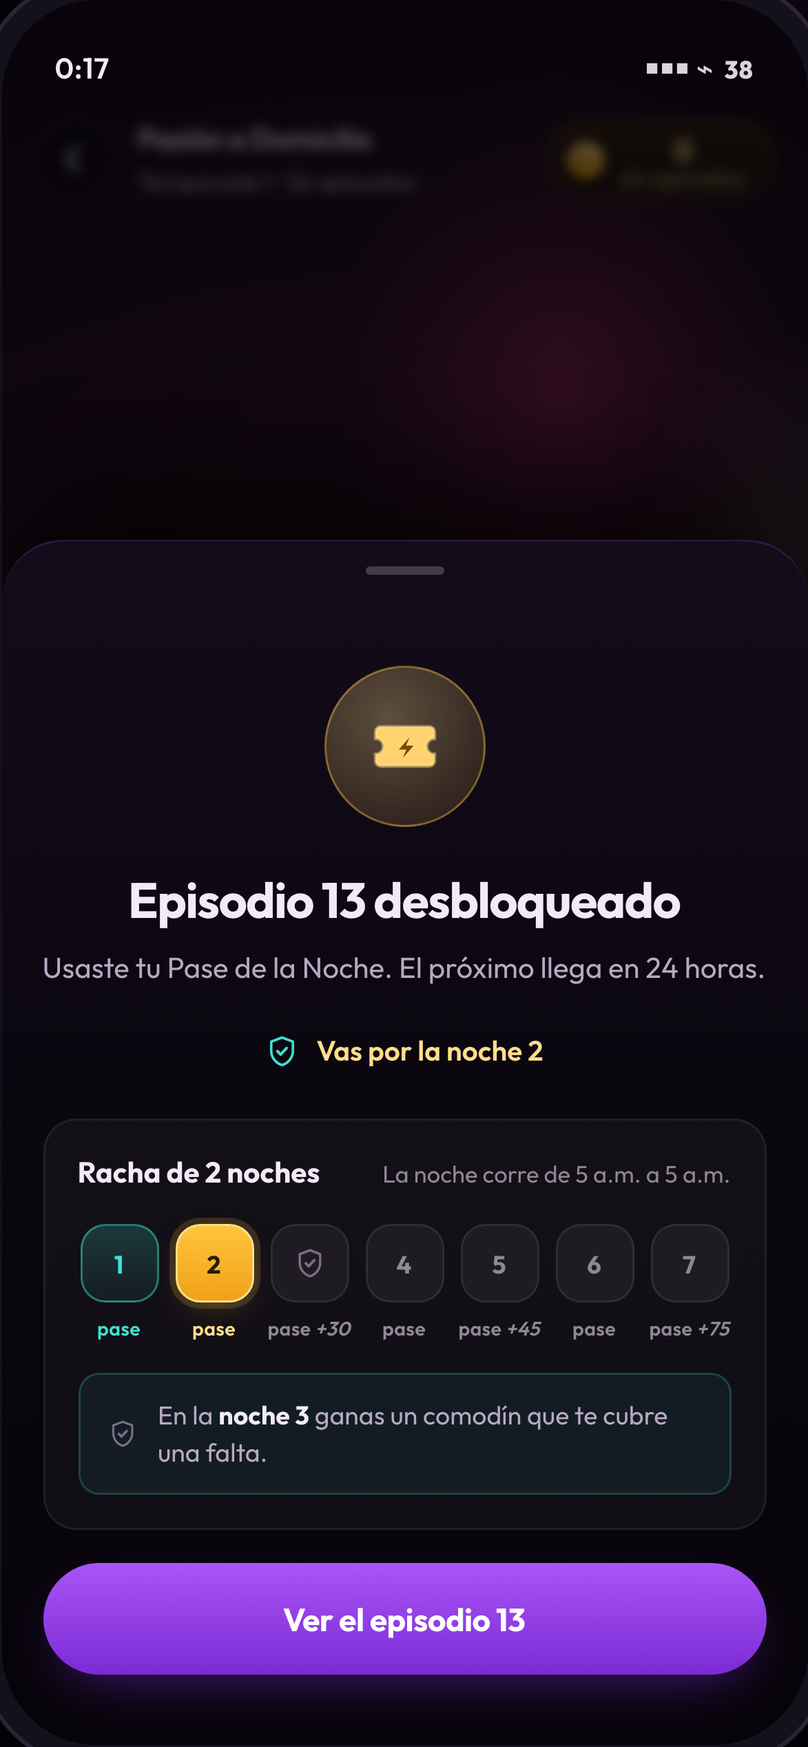
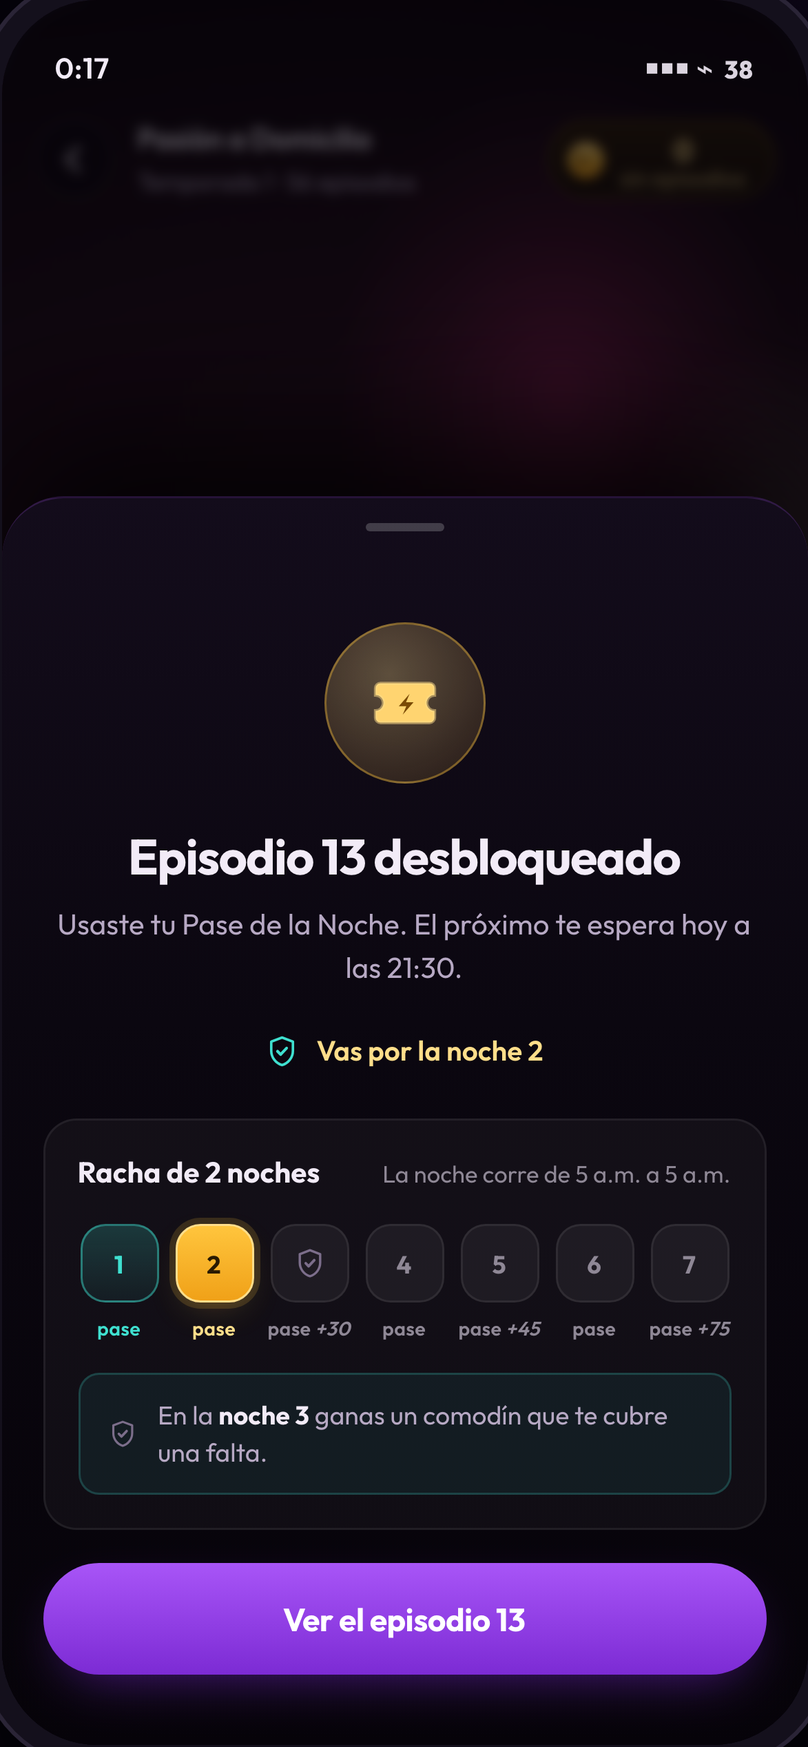
La versión sobre el stack real hacía lo que su propio SQL prohíbe
Dogfooding del otro prototipo, el único que nadie había usado como persona: se
capturaba entrando por sus rutas y nada más.

Al pulsar "Usar el pase" la racha avanzaba de 2 a 3, se daba el comodín y se
pagaba el bono. El diseño dice lo contrario y use_pass(), que está en el mismo
repositorio, lo dice en un comentario: "Gastar el pase NO avanza la racha: eso
ya pasó en credit_night() al terminar el episodio". El componente de React
hacía justo lo que su función de servidor prohíbe. De paso arrastraba el tope
clavado en 7, el mismo fallo que el prototipo tenía hasta ayer.

Las dos versiones prometían "El próximo llega en 24 horas", que es la mecánica
que D2b reemplazó: proximaCita() devuelve la hora de siempre del usuario, así
que nunca son 24 h exactas. El muro ya lo decía bien; la celebración —la
pantalla que todo el mundo ve al usar el pase— seguía con la frase vieja en las
dos. Ahora dicen la cita, o cuántos pases quedan si todavía hay.

Al corregirla, la web se quedaba sin poder decir la hora: el fixture de Pasión a
Domicilio traía nextPassAt en null con un pase en la mano, y credit_night() solo
deja ese campo en null en el tope de dos.

Y esas tres pantallas se capturaban sin ninguna red: salían con data-state null
porque la web no exponía el atributo. Es el agujero por el que este script
publicó tres veces el home con la etiqueta de otra pantalla. Ahora la web
declara su estado con el vocabulario de stateName() y el export lo verifica —
[…]

Changed region(s): [[0.0614, 0.2805, 0.9514, 0.5609]]

diff --git a/web/components/Reproductor.tsx b/web/components/Reproductor.tsx
@@ -2,7 +2,7 @@
 
 import Link from 'next/link'
 import { useState } from 'react'
-import { EPISODE_COST, STREAK, episodesLabel } from '@/lib/economy'
+import { EPISODE_COST, MAX_PASSES, episodesLabel } from '@/lib/economy'
 import type { VistaDelPase } from '@/lib/pase'
 import type { Serie } from '@/lib/supabase/queries'
 import { Moneda, Ticket } from './Moneda'
@@ -30,23 +30,30 @@ export function Reproductor({
   const [celebrar, setCelebrar] = useState(false)
 
   const usarPase = () => {
-    const nights = Math.min(pase.nights + 1, 7)
-    const premio = STREAK[nights - 1]
-    setPase({
-      ...pase,
-      passes: pase.passes - 1,
-      nights,
-      shields: Math.min(pase.shields + (premio.shield ? 1 : 0), 1),
-      balance: pase.balance + premio.coins,
-    })
+    // Gastar el pase NO avanza la racha: eso ya pasó al terminar el episodio,
+    // en credit_night(). Esta función hacía lo contrario —avanzaba la noche,
+    // daba el comodín y pagaba el bono—, o sea implementaba la mecánica vieja
+    // justo al lado de un use_pass() que dice esto mismo en un comentario.
+    setPase({ ...pase, passes: pase.passes - 1 })
     setAbierto(true)
     setCelebrar(true)
   }
 
   const pct = Math.round((episodio / serie.total) * 100)
 
+  // Mismo vocabulario que `stateName` del prototipo, y por el mismo motivo: el
+  // export compara este atributo contra el estado que dice documentar. Sin él,
+  // estas tres pantallas se capturaban sin ninguna red — y el export ya publicó
+  // tres veces la pantalla equivocada con la etiqueta correcta.
+  const estado = celebrar ? 'unlocked-via-pass'
+    : abierto ? 'player-free'
+    : pase.passes >= MAX_PASSES ? 'wall-passes-capped'
+    : pase.passes > 0 ? 'wall-pass-ready'
+    : pase.balance >= EPISODE_COST ? 'wall-with-balance'
+    : 'wall-pass-spent'
+
   return (
-    <main className="relative mx-auto h-dvh w-full max-w-[430px] overflow-hidden bg-surface-0">
+    <main data-state={estado} className="relative mx-auto h-dvh w-full max-w-[430px] overflow-hidden bg-surface-0">
       <Video serie={serie} episodio={episodio} />
 
       {/* Barra superior. El chip de saldo es la única huella permanente del
@@ -116,7 +123,6 @@ export function Reproductor({
 function Celebracion({
   pase, episodio, onCerrar,
 }: { pase: VistaDelPase; episodio: number; onCerrar: () => void }) {
-  const premio = STREAK[Math.max(0, pase.nights - 1)]
   return (
     <>
       <div className="absolute inset-0 z-40 bg-surface-0/62 backdrop-blur-[3px]" />
@@ -132,14 +138,17 @@ function Celebracion({
             <Ticket s={38} />
           </span>
           <h2 className="text-2xl font-bold tracking-tight">Episodio {episodio} desbloqueado</h2>
+          {/* Decía «El próximo llega en 24 horas» y debajo pagaba un bono de
+              racha. Las dos cosas eran de la mecánica vieja: el pase no paga
+              nada al gastarse, y la cita se ancla a la hora de siempre del
+              usuario, que es lo que `listoA` ya trae resuelto del servidor. */}
           <p className="mt-2 mb-5 text-sm leading-relaxed text-ink-mid">
-            Usaste tu Pase de la Noche. El próximo llega en 24 horas.
+            {pase.passes > 0
+              ? <>Usaste uno de tus Pases de la Noche. Te {pase.passes === 1 ? 'queda otro' : `quedan ${pase.passes}`}.</>
+              : pase.listoA
+                ? <>Usaste tu Pase de la Noche. El próximo te espera {pase.listoA.esHoy ? 'hoy' : 'mañana'} a las {pase.listoA.hora}.</>
+                : <>Usaste tu Pase de la Noche.</>}
           </p>
-          {premio.coins > 0 && (
-            <p className="mb-4 flex items-center justify-center gap-2 text-[13.5px] font-semibold text-pass-100">
-              <Moneda s={18} /> Noche {pase.nights}: +{premio.coins} monedas por la racha
-            </p>
-          )}
         </div>
         <div className="mb-4">
           <Racha nights={pase.nights} shields={pase.shields} />

diff --git a/web/lib/supabase/queries.ts b/web/lib/supabase/queries.ts
@@ -126,8 +126,15 @@ export async function desbloqueadoHasta(slug: string): Promise<number> {
 const ZONA = 'America/Mexico_City'
 
 const ESTADOS: Record<string, Omit<EstadoPase, 'timezone' | 'hasAccount' | 'serverNow'>> = {
-  // Tiene el pase de esta noche sin usar.
-  'pasion-a-domicilio': { passes: 1, nextPassAt: null, nights: 2, shields: 0, balance: 0 },
+  // Tiene el pase de esta noche sin usar. `nextPassAt` va puesto a propósito:
+  // credit_night() solo lo deja en null cuando el usuario está EN EL TOPE de
+  // dos, y con uno todavía está acumulando. Estaba en null, así que al gastar
+  // el pase la celebración se quedaba sin poder decir cuándo llega el próximo
+  // —que es justo lo que D2b propone y lo que el muro sí dice—.
+  'pasion-a-domicilio': {
+    passes: 1, nights: 2, shields: 0, balance: 0,
+    nextPassAt: new Date(proximaCita(RELOJ_FIJO, ZONA)).toISOString(),
+  },
   // Ya lo usó y no tiene monedas: el muro se vuelve una cita con hora.
   'la-herencia-del-patriarca': {
     passes: 0, nights: 3, shields: 1, balance: 0,

diff --git a/poc/src/components/bits.tsx b/poc/src/components/bits.tsx
@@ -61,19 +61,6 @@ export function NextPass({ readyAt, now }: { readyAt: number; now: number }) {
 }
 
 /** La racha: 7 noches, hito visible, comodín explícito. */
-/**
- * «hoy a las 21:30» / «mañana a las 21:30».
- *
- * La cita se ancla a la hora de siempre del usuario (D2b), no a «+24 h desde
- * que lo usaste». Por eso nunca son 24 horas exactas: gastarlo a las 00:30 deja
- * el próximo a 21 h, y a las 22:00 a 23:30.
- */
-export const citaTexto = (readyAt: number, now: number) => {
-  const d = new Date(readyAt)
-  const hora = `${d.getHours()}:${String(d.getMinutes()).padStart(2, '0')}`
-  return `${new Date(now).getDate() === d.getDate() ? 'hoy' : 'mañana'} a las ${hora}`
-}
-
 export function StreakStrip({
   nights, shields, shieldJustUsed, justAdvanced,
 }: { nights: number; shields: number; shieldJustUsed: boolean; justAdvanced?: boolean }) {

diff --git a/poc/src/lib/state.ts b/poc/src/lib/state.ts
@@ -276,6 +276,19 @@ export function nocheDe(ms: number): string {
 }
 
 /** La cita: mañana a la hora en que este usuario suele ver, no +24 h desde ahora. */
+/**
+ * «hoy a las 21:30» / «mañana a las 21:30».
+ *
+ * La cita se ancla a la hora de siempre del usuario (D2b), no a «+24 h desde
+ * que lo usaste». Por eso nunca son 24 horas exactas: gastarlo a las 00:30 deja
+ * el próximo a 21 h, y a las 22:00 a 23:30.
+ */
+export const citaTexto = (readyAt: number, now: number) => {
+  const d = new Date(readyAt)
+  const hora = `${d.getHours()}:${String(d.getMinutes()).padStart(2, '0')}`
+  return `${new Date(now).getDate() === d.getDate() ? 'hoy' : 'mañana'} a las ${hora}`
+}
+
 export function proximaCita(now: number): number {
   const d = new Date(now)
   const h = Math.floor(HORA_HABITUAL)

diff --git a/poc/src/components/Sheets.tsx b/poc/src/components/Sheets.tsx
@@ -1,9 +1,9 @@
 import { useState } from 'react'
 import { Coin, Pass, Shield, X } from './Icons'
-import { StreakStrip, citaTexto } from './bits'
+import { StreakStrip } from './bits'
 import { frameStyle } from '../lib/frame'
 import { EPISODE_COST, MAX_PASSES, PACKS, STREAK, episodesLabel, packThatCompletes, pricePerEpisode, toEpisodes } from '../lib/economy'
-import { desbloqueadoDe, enCurso, serieDe, type State } from '../lib/state'
+import { citaTexto, desbloqueadoDe, enCurso, serieDe, type State } from '../lib/state'
 
 /* ═══ Elección del pase ═══════════════════════════════════════
    Es el corazón pedagógico de la intervención. Al obligar a elegir

diff --git a/docs/02-estrategia/README.md b/docs/02-estrategia/README.md
@@ -89,12 +89,24 @@ Cuatro cambios acoplados:
 
 *Acá decía, en presente, que «el muro rediseñado muestra las tres». Estaba mal: no es cierto en ningún artefacto de este repo —ni el diseño de [§3](../03-diseno/) ni el POC tienen suscripción; tienen el pase y la compra de monedas—, así que era una propuesta escrita como un hecho que el evaluador desmentía con solo seguir el link. Es una propuesta. Y admitirlo obliga a contar cuatro cambios en I5, no tres.*
 
+**Y una consecuencia que conviene presupuestar en vez de descubrir: I5 toca el perfil.** No como rediseño —eso sigue descartado en [§2.6](#26-qué-queda-deliberadamente-afuera), y por la misma razón de siempre— sino porque hay tres piezas de esta intervención que no tienen ningún otro sitio donde vivir:
+
+| Pieza | Por qué cae dentro de I5 |
+|---|---|
+| **Interruptor del aviso del pase** | La cita manda una notificación. Si no hay dónde apagarla dentro de la app, el usuario la apaga desde los ajustes del sistema — y ahí las pierde todas, para siempre y sin vuelta atrás. Es la diferencia entre *«no me avises tanto»* y *«silenciado»*. |
+| **La línea que explica la noche** | *«Tu noche va de 5 a.m. a 5 a.m.»* Suena a detalle técnico y no lo es: con la base repartida en cuatro husos, alguien va a escribir «me entró el pase el martes y la app dice lunes». Una línea de texto responde eso; sin ella lo responde soporte. |
+| **Espejo de «Tu economía»** | El mismo componente que se abre desde el chip de saldo, con un segundo punto de entrada. Cuesta cero y sirve al 18% que sí entra al perfil, que es la parte más enganchada de la base. **Nunca como único camino:** la puerta principal sigue siendo el saldo, dentro del reproductor. |
+
+Ninguna de las tres mueve la métrica. Las tres se notan si faltan.
+
+**Y una cuarta, que no es del perfil sino del lanzamiento.** Esta intervención elimina la pestaña de Recompensas, y **el 19% que hoy sí la usa se va a encontrar con que no está.** Objetivamente reciben más que antes —el pase llega solo y no hay nada que reclamar—, pero que te quiten algo no se corrige con aritmética, y es justamente el segmento más enganchado de la base. Un aviso de una sola vez en el reproductor, la primera vez que se acredita una noche: *«Ya no hay que reclamar nada. Tu pase llega solo mientras ves.»* Es el único daño previsible de la migración y la parte más barata de todo I5.
+
 | | |
 |---|---|
 | **Hipótesis** | El muro es hoy un final. Convertido en una cita con hora — *"tu próximo episodio se abre hoy a las 21:30, tu hora de siempre"* — deja de ser el final de la relación y pasa a ser el motivo del próximo regreso. Y como la unidad es la noche, los pases se acumulan hasta dos y hay comodín, un usuario de 2.3 días/semana puede sostener una racha sin cambiar de conducta. |
 | **Mueve** | **DAU/MAU** (objetivo primario). Racha de 3+: 6% → objetivo 20%. Reclamo diario: 19% → 55%+. |
 | **Cómo lo sé** | *Leading (semana 1):* % de muros que terminan en pase usado en vez de cierre. *Leading (semana 2):* % que vuelve dentro de las 36 h de haber usado el pase. *Lagging (semana 4):* DAU/MAU de la celda tratada vs. holdout. *Guardrail:* ARPDAU, leído como ingreso por DAU y no como mix de productos: si el mensual en el muro solo canibaliza packs, el mix se mueve y el ingreso no, y eso no es una ganancia. **Criterio de kill:** si ARPDAU cae >8% relativo sostenido 2 semanas, se revierte. |
-| **Costo** | ~4–5 semanas (server-authoritative timers, estado de invitado, migración a cuenta). El cuarto cambio no las mueve, y digo por qué en vez de dejarlo implícito: los dos pases ya son productos vivos de la ficha del build 1.20.0, así que no hay config de store que presupuestar —eso sí lo cuesta I3, que redefine qué trae cada pack—, y lo que suma es una opción más dentro de un muro que en esta intervención se reconstruye entero igual. Si enganchar la compra de la suscripción resulta más caro que eso, sale de I5 y se va a la Ola 3: de los cuatro cambios es el que menos mueve el objetivo. |
+| **Costo** | ~4–5 semanas (server-authoritative timers, estado de invitado, migración a cuenta). El cuarto cambio no las mueve, y digo por qué en vez de dejarlo implícito: los dos pases ya son productos vivos de la ficha del build 1.20.0, así que no hay config de store que presupuestar —eso sí lo cuesta I3, que redefine qué trae cada pack—, y lo que suma es una opción más dentro de un muro que en esta intervención se reconstruye entero igual. Si enganchar la compra de la suscripción resulta más caro que eso, sale de I5 y se va a la Ola 3: de los cuatro cambios es el que menos mueve el objetivo. Las cuatro piezas de perfil y de lanzamiento del párrafo anterior entran dentro de esas semanas: ninguna pasa de un día, y las cuento acá para que no aparezcan después como alcance no presupuestado. |
 | **Compuerta ①** | ✅ ocurre exactamente en el muro. |
 
 #### I6 · Progreso de serie visible
@@ -114,6 +126,8 @@ Cuatro cambios acoplados:
 
 #### I7 · La cuenta se pide cuando hay algo que perder
 No hay muro de registro. La cuenta se ofrece en un solo momento: cuando el invitado tiene racha y saldo acumulados. *"Guarda tu racha de 4 noches y tus 45 monedas."*
+
+**Alcance en el perfil.** Pedir la cuenta en el muro obliga a que exista el camino de vuelta, y ese camino no cabe en el muro: **iniciar sesión** desde otro teléfono y **restaurar compras**. Lo segundo deja de ser opcional en cuanto el muro ofrece el mensual ([I5, cuarto cambio](#i5--el-pase-de-la-noche--la-racha-de-noches-)): las tiendas exigen un mecanismo de restauración para las suscripciones renovables. Es soporte, no producto — pero si falta no aparece en el dashboard, aparece en las reseñas de la tienda.
 
 | | |
 |---|---|
@@ -177,7 +191,7 @@ I8                                ██████
 
 | Descartado | Por qué |
 |---|---|
-| Rediseño de la sección de perfil | 82% nunca entra. No se arregla un cuarto amoblándolo. |
+| Rediseño de la sección de perfil | 82% nunca entra. No se arregla un cuarto amoblándolo — y el argumento más fuerte no es ese 82% sino el 81%: la pestaña de Recompensas **regala monedas** y cuatro de cada cinco usuarios no van. Si no navegan por dinero gratis, tampoco van a navegar por unas estadísticas. El 82% no es síntoma de un perfil vacío, es síntoma de que en esta sesión —entrar de madrugada, tocar «seguir viendo», cerrar— no hay ningún momento de navegación. *Descarto el rediseño, no la sección:* I5 e I7 sí tocan el perfil, con cuatro piezas chicas que no son engagement sino consecuencia —interruptor de avisos, la línea de la noche, el espejo de «Tu economía» y restaurar compras—. Van listadas dentro de cada intervención, y no como una novena, porque darles entidad propia contradiría la compuerta ① de [§2.2](#22-criterio-de-priorización). |
 | Rankings, tablas, comparación social | 11 p.m.–2 a.m., consumo solitario, vertical con pudor, 88% sin identidad. No es motivación, es exposición. |
 | Insignias y coleccionables como apuesta principal | Vínculo indirecto con DAU/MAU, carga cognitiva alta, sin evidencia de motivación de coleccionista. Candidatos a capa posterior. |
 | Anuncios recompensados como fuente | Es la fuente obvia y ya es estándar de la categoría: DramaBox permite hasta 15 anuncios diarios ≈ 30 monedas, y ReelShort también los ofrece. Pero cambia la naturaleza del producto (de corto-premium a ad-supported) y ese es un llamado de negocio, no de diseño. Lo señalo, no lo decido. La cifra de DramaBox es de fuente secundaria —una guía de terceros, no la app— y queda por verificar; la uso porque es la mejor que encontré. Acá decía además «unos 6 episodios gratis por día» y lo saqué: no hay precio por episodio de DramaBox en ninguna de las fuentes que junté, así que esa conversión no salía de ningún lado. |

diff --git a/docs/04-poc/README.md b/docs/04-poc/README.md
@@ -118,6 +118,14 @@ Al arreglarlo apareció la de debajo: el total seguía valorando los pases por `
 
 Las tres se sostienen desde [`recorrer.mjs`](../../poc/scripts/recorrer.mjs), que llega a la pantalla como una persona —tocando el saldo— y comprueba que el número sea el gasto real, que el total sea la suma de lo que lista, y que ninguna noche esconda el pase. Reproduciendo el fallo original, el paso cae diciendo *«15 + 0 = 30»*.
 
+**La versión sobre el stack real implementaba la mecánica vieja.** Es el único prototipo que nadie había usado como persona —se capturaba entrando por sus rutas y nada más—, y al pulsar *«Usar el pase»* la racha avanzaba de 2 a 3, se otorgaba el comodín y se pagaba el bono. El diseño dice lo contrario, y **el `use_pass()` que está en el mismo repositorio lo dice en un comentario**: *«Gastar el pase NO avanza la racha: eso ya pasó en `credit_night()` al terminar el episodio»*. El componente de React hacía justo lo que su propia función de servidor prohíbe.
+
+**Y las dos versiones prometían «El próximo llega en 24 horas».** Es la mecánica que [D2b](../03-diseno/#d2b--la-cita-se-ancla-a-la-hora-de-siempre-no-a-24-h-desde-que-lo-usaste) reemplazó: `proximaCita()` devuelve la **hora de siempre** del usuario, así que nunca son 24 horas exactas — gastarlo a las 00:30 deja el próximo a 21 h, y a las 22:00 a 23:30. El muro ya lo decía bien; la celebración, que es la pantalla que todo el mundo ve al usar el pase, seguía con la frase vieja en el prototipo **y** en la web. Ahora las dos dicen la cita, o cuántos pases quedan si todavía hay.
+
+*Un fixture que no obedecía a su propia función.* Al corregir la copia, la celebración de la web se quedaba sin poder decir la hora: el estado de *Pasión a Domicilio* traía `nextPassAt: null` con un pase en la mano, y `credit_night()` solo deja ese campo en null **en el tope de dos**. Con uno, el usuario sigue acumulando y la cita existe.
+
+**Y esas tres pantallas se capturaban sin ninguna red.** En el manifiesto salían con `data-state: null`, porque la versión web no exponía el atributo que el export compara. Es exactamente el agujero por el que este script llegó a publicar tres veces el home con etiquetas de otras pantallas. Ahora la web declara su estado con el mismo vocabulario que `stateName()` del prototipo, y el export lo verifica antes de disparar: con un estado esperado incorrecto, se niega a capturar.
+
 **El documento prometía un pase que el código no entregaba.** El diseño dice que el pase se *emite por reloj* y se *entrega al ver*, y que por eso al volver de una noche de ausencia hay **dos** esperando. Las dos implementaciones —el reducer del prototipo y `credit_night()` en SQL— entregaban `+1` por visita. La diferencia solo se nota en el caso que la mecánica existe para cubrir: quien gastó su pase anoche y faltó hoy volvía a encontrar uno solo, o sea *use it or lose it* — el error de Webtoon, otra vez, ahora escondido en una línea de código en vez de en una frase. Se corrigió en las dos, y ahora [`scripts/acreditacion.mjs`](../../poc/scripts/acreditacion.mjs) lo sostiene en CI: le devolví el `+1` fijo al reducer y la prueba cae señalando exactamente esa regla.
 
 *Por qué hacía falta una prueba nueva.* [`recorrer.mjs`](../../poc/scripts/recorrer.mjs) evita el panel del director a propósito, porque saltar a un estado no prueba que se pueda llegar a él. Pero estas reglas hablan del **paso del tiempo**, y no hay forma de esperar una noche dentro de una prueba: ahí el panel es la única vía. Son dos scripts porque prueban dos cosas distintas, no por comodidad.

diff --git a/README.md b/README.md
@@ -16,8 +16,7 @@
 | **Prototipo** — home, catálogo, ficha de serie y el muro | **https://gabrielardzj.github.io/idilio-tv/** |
 | **Diagnóstico y estrategia** — los entregables de texto | **https://gabrielardzj.github.io/idilio-tv/docs/diagnostico.html** |
 | **Export de flujos** — 22 pantallas en 8 flujos | **https://gabrielardzj.github.io/idilio-tv/flujos/** |
-| **Diseño** — las 10 pantallas del archivo de diseño | **https://gabrielardzj.github.io/idilio-tv/docs/diseno.html** |
-| **Benchmark competitivo** — quién más lo intentó y contra qué chocó | **https://gabrielardzj.github.io/idilio-tv/docs/benchmark.html** |
+| **Diseño** — el sistema visual y las 10 pantallas del archivo de diseño | **https://gabrielardzj.github.io/idilio-tv/docs/diseno.html** |
 | **Sobre el stack real de Idilio** | **https://gabrielardzj.github.io/idilio-tv/stack/** |
 
 > **El diseño es nativo de [Figma](https://www.figma.com/design/CCI8plwuWvfTV8VBpowN5X):** una
@@ -36,7 +35,7 @@
 | **4** | **[POC](docs/04-poc/)** | Prototipo funcional · [`/poc`](poc/) · y el [export de flujos](mobbin-export/) con 22 pantallas en 8 flujos. |
 | **+** | **[Sobre el stack real](web/)** | La misma intervención implementada en Next.js App Router + Tailwind v4 + Supabase, el stack que Idilio corre hoy. Incluye la migración SQL completa. Es la respuesta a *«la viabilidad de implementación hace parte de la propuesta»*. |
 
-**Anexos ·** [Registro de dogfooding](docs/00-dogfooding/) — qué se pudo usar del producto real y qué se verificó ahí. · [Benchmark competitivo](docs/05-benchmark/) — quién más construye un metajuego sobre contenido serializado, contra qué chocó y cómo lo resolvió.
+**Anexos ·** No son páginas del sitio publicado; se leen acá, en el repo. · [Registro de dogfooding](docs/00-dogfooding/) — qué se pudo usar del producto real y qué se verificó ahí. · [Benchmark competitivo](docs/05-benchmark/) — quién más construye un metajuego sobre contenido serializado, contra qué chocó y cómo lo resolvió.
 
 ---
 

diff --git a/docs/03-diseno/README.md b/docs/03-diseno/README.md
@@ -46,7 +46,7 @@ Son dos cosas distintas y mezclarlas fue el error de mi primera versión:
 
 Es la corrección directa al **19% de reclamo** de la recompensa diaria. Ese 19% no es un problema de diseño de pantalla — es la consecuencia de haber puesto un botón entre el usuario y algo que ya se ganó. Quitando el botón, la adopción de la fuente pasa a ~100% **por construcción**.
 
-> Esta regla no estaba en mi primera versión: la acreditación colgaba de un reloj de 24 h. La tomé de la versión paralela de este mismo reto, donde está mejor resuelta.
+> Esta regla no estaba en mi primera versión: la acreditación colgaba de un reloj de 24 h. La tomé de la versión paralela de este mismo reto, donde está mejor resuelta. El razonamiento completo está en [`RECONCILIACION.md`](../RECONCILIACION.md).
 
 **R1b · Lo pendiente se acumula hasta dos, y ahí se detiene.**
 El techo de emisión es duro y por usuario, no por serie. El de acumulación es otro: **el saldo pendiente no pasa de 2**, y lo que se emite por encima de 2 mientras el usuario no aparece se pierde. Ese es el gradiente entero de la mecánica, y es fino a propósito: faltar una noche no cuesta nada —al volver hay dos esperando—, faltar dos seguidas ya deja un pase en el camino. Nadie recibe un castigo; el que vuelve seguido simplemente recoge todo lo que se emitió. El tope cubre además el caso de quien ve episodios gratis, recibe el pase y cierra la app sin llegar al muro. Se explica en §3.4bis.
